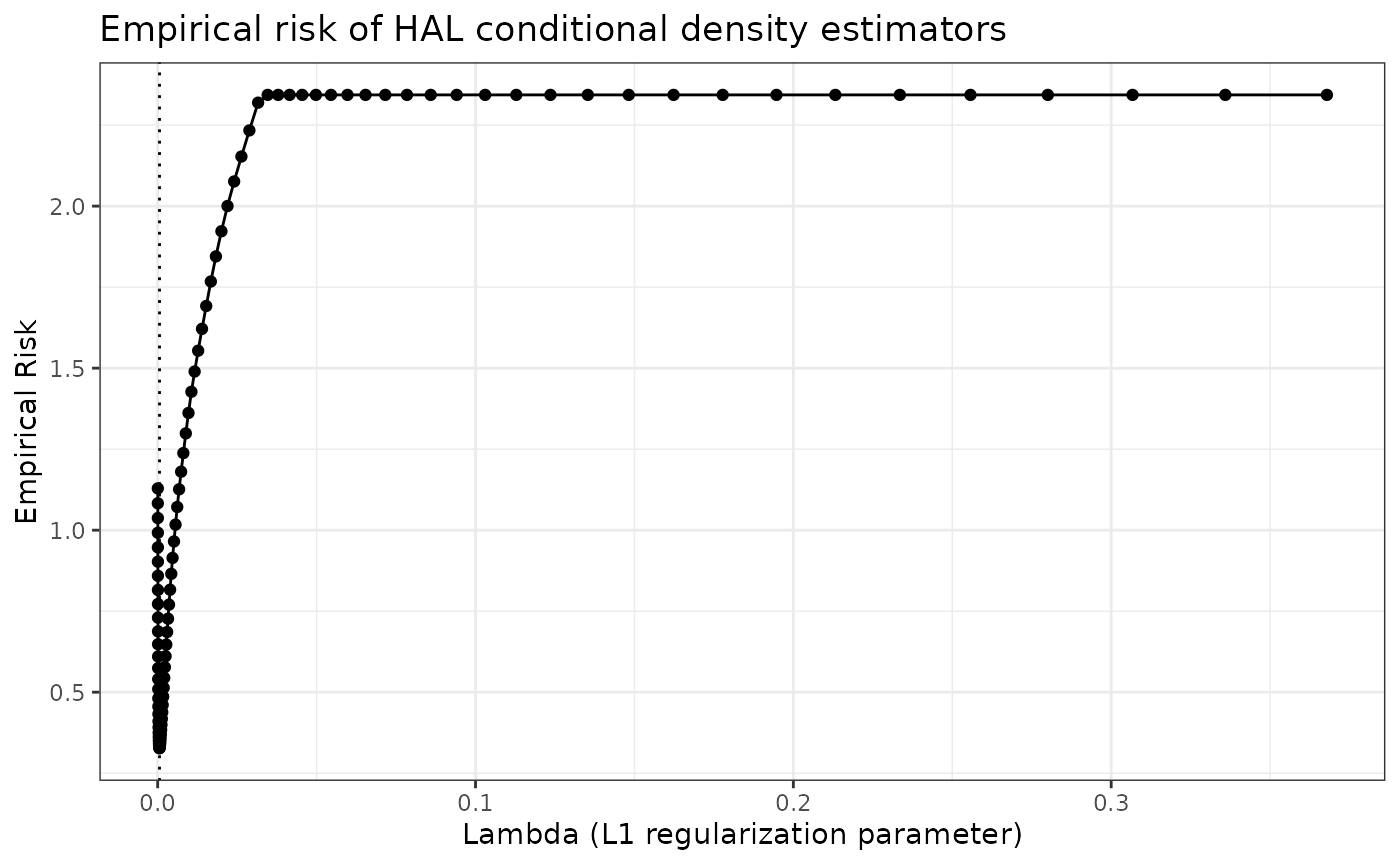
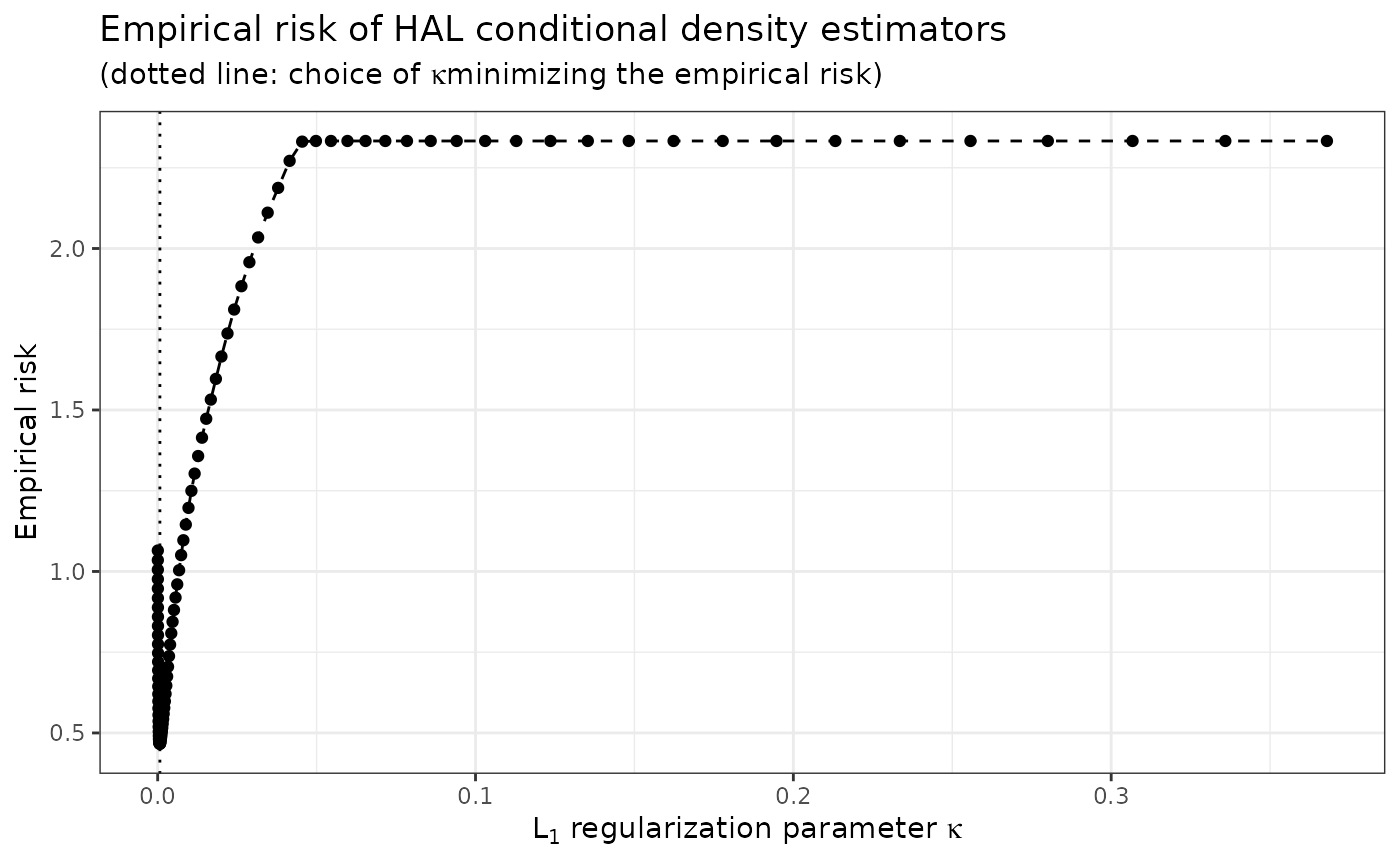
pkgdown updates

diff --git a/README.html b/README.html
@@ -603,7 +603,7 @@ body {
 <!-- README.md is generated from README.Rmd. Please edit that file -->
 
 <h1 id="rhaldensify">R/<code>haldensify</code></h1>
[2 lines of base64/hex data omitted]
 <blockquote>
 <p>Highly Adaptive Lasso Conditional Density Estimation</p>
 </blockquote>

diff --git a/docs/articles/intro_haldensify.html b/docs/articles/intro_haldensify.html
@@ -87,7 +87,7 @@
 <a href="https://nimahejazi.org">Nima Hejazi</a> and <a href="https://www.sph.emory.edu/faculty/profile/#!dbenkes">David Benkeser</a>
 </h4>
             
-            <h4 class="date">2021-02-05</h4>
+            <h4 class="date">2021-02-12</h4>
       
       <small class="dont-index">Source: <a href="https://github.com/nhejazi/haldensify/blob/master/vignettes/intro_haldensify.Rmd"><code>vignettes/intro_haldensify.Rmd</code></a></small>
       <div class="hidden name"><code>intro_haldensify.Rmd</code></div>
@@ -132,9 +132,9 @@
 <a href="#example" class="anchor"></a>Example</h1>
 <p>First, let’s load a few required packages and set a seed for our example.</p>
 <div class="sourceCode" id="cb1"><pre class="downlit sourceCode r">
-<code class="sourceCode R"><span class="kw"><a href="https://rdrr.io/r/base/library.html">library</a></span><span class="op">(</span><span class="va"><a href="https://ggplot2.tidyverse.org">ggplot2</a></span><span class="op">)</span>
+<code class="sourceCode R"><span class="kw"><a href="https://rdrr.io/r/base/library.html">library</a></span><span class="op">(</span><span class="va"><a href="https://github.com/nhejazi/haldensify">haldensify</a></span><span class="op">)</span>
 <span class="kw"><a href="https://rdrr.io/r/base/library.html">library</a></span><span class="op">(</span><span class="va"><a href="https://Rdatatable.gitlab.io/data.table">data.table</a></span><span class="op">)</span>
-<span class="kw"><a href="https://rdrr.io/r/base/library.html">library</a></span><span class="op">(</span><span class="va"><a href="https://github.com/nhejazi/haldensify">haldensify</a></span><span class="op">)</span>
+<span class="kw"><a href="https://rdrr.io/r/base/library.html">library</a></span><span class="op">(</span><span class="va"><a href="https://ggplot2.tidyverse.org">ggplot2</a></span><span class="op">)</span>
 <span class="fu"><a href="https://rdrr.io/r/base/Random.html">set.seed</a></span><span class="op">(</span><span class="fl">75681</span><span class="op">)</span></code></pre></div>
 <p>Next, we’ll generate a simple simulated dataset. The function <code>make_example_data</code>, defined below, generates a baseline covariate <span class="math inline">\(W\)</span> and a continuous-valued exposure variable <span class="math inline">\(A\)</span>, whose mean is a function of <span class="math inline">\(W\)</span>.</p>
 <div class="sourceCode" id="cb2"><pre class="downlit sourceCode r">
@@ -161,28 +161,16 @@
 ## 6: -2.9132139 -3.02363838</code></pre>
 <p>Next, we’ll fit our pooled hazards conditional density estimator via the <code>haldensify</code> wrapper function. Based on underlying theory and simulation experiments, we recommend setting a relatively large number of bins and using a binning strategy that accommodates creating such a large number of bins.</p>
 <div class="sourceCode" id="cb5"><pre class="downlit sourceCode r">
-<code class="sourceCode R"><span class="va">density_hal</span> <span class="op">&lt;-</span> <span class="fu"><a href="../reference/haldensify.html">haldensify</a></span><span class="op">(</span>
+<code class="sourceCode R"><span class="va">haldensify_fit</span> <span class="op">&lt;-</span> <span class="fu"><a href="../reference/haldensify.html">haldensify</a></span><span class="op">(</span>
   A <span class="op">=</span> <span class="va">example_data</span><span class="op">$</span><span class="va">A</span>,
   W <span class="op">=</span> <span class="va">example_data</span><span class="op">$</span><span class="va">W</span>,
-  n_bins <span class="op">=</span> <span class="fu"><a href="https://rdrr.io/r/base/c.html">c</a></span><span class="op">(</span><span class="fl">5</span>, <span class="fl">15</span><span class="op">)</span>,
+  n_bins <span class="op">=</span> <span class="fu"><a href="https://rdrr.io/r/base/c.html">c</a></span><span class="op">(</span><span class="fl">5</span>, <span class="fl">10</span><span class="op">)</span>,
   grid_type <span class="op">=</span> <span class="st">"equal_range"</span>,
   lambda_seq <span class="op">=</span> <span class="fu"><a href="https://rdrr.io/r/base/Log.html">exp</a></span><span class="op">(</span><span class="fu"><a href="https://rdrr.io/r/base/seq.html">seq</a></span><span class="op">(</span><span class="op">-</span><span class="fl">1</span>, <span class="op">-</span><span class="fl">10</span>, length <span class="op">=</span> <span class="fl">100</span><span class="op">)</span><span class="op">)</span>
 <span class="op">)</span></code></pre></div>
-<p>Having constructed the conditional density estimator, we can examine the empirical risk over the grid of L1 regularization parameters. To do this, we can use the cross-validated conditional density fits returned in the <code>cv_tuning_results</code> slot of the <code>haldensify</code> object. For example, we can plot these as follows</p>
+<p>Having constructed the conditional density estimator, we can examine the empirical risk over the grid of choices of the <span class="math inline">\(L_1\)</span> regularization parameter <span class="math inline">\(\lambda\)</span>. To do this, we can simply call the available <code>plot</code> method, which uses the cross-validated conditional density fits in the <code>cv_tuning_results</code> slot of the <code>haldensify</code> object. For example,</p>
 <div class="sourceCode" id="cb6"><pre class="downlit sourceCode r">
-<code class="sourceCode R"><span class="va">emp_risk_dat</span> <span class="op">&lt;-</span> <span class="fu"><a href="https://Rdatatable.gitlab.io/data.table/reference/as.data.table.html">as.data.table</a></span><span class="op">(</span><span class="fu"><a href="https://rdrr.io/r/base/list.html">list</a></span><span class="op">(</span>
-  lambda <span class="op">=</span> <span class="va">density_hal</span><span class="op">$</span><span class="va">cv_tuning_results</span><span class="op">$</span><span class="va">lambda_seq</span>,
-  risk <span class="op">=</span> <span class="va">density_hal</span><span class="op">$</span><span class="va">cv_tuning_results</span><span class="op">$</span><span class="va">emp_risks</span>
-<span class="op">)</span><span class="op">)</span>
-<span class="va">p_risk</span> <span class="op">&lt;-</span> <span class="fu"><a href="https://ggplot2.tidyverse.org/reference/ggplot.html">ggplot</a></span><span class="op">(</span><span class="va">emp_risk_dat</span>, <span class="fu"><a href="https://ggplot2.tidyverse.org/reference/aes.html">aes</a></span><span class="op">(</span>x <span class="op">=</span> <span class="va">lambda</span>, y <span class="op">=</span> <span class="va">risk</span><span class="op">)</span><span class="op">)</span> <span class="op">+</span>
-  <span class="fu"><a href="https://ggplot2.tidyverse.org/reference/geom_point.html">geom_point</a></span><span class="op">(</span><span class="op">)</span> <span class="op">+</span>
-  <span class="fu"><a href="https://ggplot2.tidyverse.org/reference/geom_path.html">geom_line</a></span><span class="op">(</span><span class="op">)</span> <span class="op">+</span>
-  <span class="fu"><a href="https://ggplot2.tidyverse.org/reference/geom_abline.html">geom_vline</a></span><span class="op">(</span>xintercept <span class="op">=</span> <span class="va">density_hal</span><span class="op">$</span><span class="va">cv_tuning_results</span><span class="op">$</span><span class="va">lambda_loss_min</span>,
-             linetype <span class="op">=</span> <span class="st">"dotted"</span><span class="op">)</span> <span class="op">+</span>
-  <span class="fu"><a href="https://ggplot2.tidyverse.org/reference/ggtheme.html">theme_bw</a></span><span class="op">(</span><span class="op">)</span> <span class="op">+</span>
-  <span class="fu"><a href="https://ggplot2.tidyverse.org/reference/labs.html">xlab</a></span><span class="op">(</span><span class="st">"Lambda (L1 regularization parameter)"</span><span class="op">)</span> <span class="op">+</span>
-  <span class="fu"><a href="https://ggplot2.tidyverse.org/reference/labs.html">ylab</a></span><span class="op">(</span><span class="st">"Empirical Risk"</span><span class="op">)</span> <span class="op">+</span>
-  <span class="fu"><a href="https://ggplot2.tidyverse.org/reference/labs.html">ggtitle</a></span><span class="op">(</span><span class="st">"Empirical risk of HAL conditional density estimators"</span><span class="op">)</span>
+<code class="sourceCode R"><span class="va">p_risk</span> <span class="op">&lt;-</span> <span class="fu"><a href="https://rdrr.io/r/graphics/plot.default.html">plot</a></span><span class="op">(</span><span class="va">haldensify_fit</span><span class="op">)</span>
 <span class="va">p_risk</span></code></pre></div>
 <p><img src="intro_haldensify_files/figure-html/plot_risk_haldensify-1.png" width="700"></p>
 <p>Finally, we can predict the conditional density over the grid of observed values <span class="math inline">\(A\)</span> across different elements of the support <span class="math inline">\(W\)</span>. We do this using the <code>predict</code> method of <code>haldensify</code> and plot the results below.</p>
@@ -193,11 +181,11 @@
                               w_neg <span class="op">=</span> <span class="fu"><a href="https://rdrr.io/r/base/rep.html">rep</a></span><span class="op">(</span><span class="op">-</span><span class="fl">2</span>, <span class="fu"><a href="https://rdrr.io/r/base/length.html">length</a></span><span class="op">(</span><span class="va">new_a</span><span class="op">)</span><span class="op">)</span>,
                               w_zero <span class="op">=</span> <span class="fu"><a href="https://rdrr.io/r/base/rep.html">rep</a></span><span class="op">(</span><span class="fl">0</span>, <span class="fu"><a href="https://rdrr.io/r/base/length.html">length</a></span><span class="op">(</span><span class="va">new_a</span><span class="op">)</span><span class="op">)</span>,
                               w_pos <span class="op">=</span> <span class="fu"><a href="https://rdrr.io/r/base/rep.html">rep</a></span><span class="op">(</span><span class="fl">2</span>, <span class="fu"><a href="https://rdrr.io/r/base/length.html">length</a></span><span class="op">(</span><span class="va">new_a</span><span class="op">)</span><span class="op">)</span><span class="op">)</span><span class="op">)</span>
-<span class="va">new_dat</span><span class="op">[</span>, <span class="va">pred_w_neg</span> <span class="op">:=</span> <span class="fu"><a href="https://rdrr.io/r/stats/predict.html">predict</a></span><span class="op">(</span><span class="va">density_hal</span>, new_A <span class="op">=</span> <span class="va">new_dat</span><span class="op">$</span><span class="va">a</span>,
+<span class="va">new_dat</span><span class="op">[</span>, <span class="va">pred_w_neg</span> <span class="op">:=</span> <span class="fu"><a href="https://rdrr.io/r/stats/predict.html">predict</a></span><span class="op">(</span><span class="va">haldensify_fit</span>, new_A <span class="op">=</span> <span class="va">new_dat</span><span class="op">$</span><span class="va">a</span>,
                                 new_W <span class="op">=</span> <span class="va">new_dat</span><span class="op">$</span><span class="va">w_neg</span><span class="op">)</span><span class="op">]</span>
-<span class="va">new_dat</span><span class="op">[</span>, <span class="va">pred_w_zero</span> <span class="op">:=</span> <span class="fu"><a href="https://rdrr.io/r/stats/predict.html">predict</a></span><span class="op">(</span><span class="va">density_hal</span>, new_A <span class="op">=</span> <span class="va">new_dat</span><span class="op">$</span><span class="va">a</span>,
+<span class="va">new_dat</span><span class="op">[</span>, <span class="va">pred_w_zero</span> <span class="op">:=</span> <span class="fu"><a href="https://rdrr.io/r/stats/predict.html">predict</a></span><span class="op">(</span><span class="va">haldensify_fit</span>, new_A <span class="op">=</span> <span class="va">new_dat</span><span class="op">$</span><span class="va">a</span>,
                                  new_W <span class="op">=</span> <span class="va">new_dat</span><span class="op">$</span><span class="va">w_zero</span><span class="op">)</span><span class="op">]</span>
-<span class="va">new_dat</span><span class="op">[</span>, <span class="va">pred_w_pos</span> <span class="op">:=</span> <span class="fu"><a href="https://rdrr.io/r/stats/predict.html">predict</a></span><span class="op">(</span><span class="va">density_hal</span>, new_A <span class="op">=</span> <span class="va">new_dat</span><span class="op">$</span><span class="va">a</span>,
+<span class="va">new_dat</span><span class="op">[</span>, <span class="va">pred_w_pos</span> <span class="op">:=</span> <span class="fu"><a href="https://rdrr.io/r/stats/predict.html">predict</a></span><span class="op">(</span><span class="va">haldensify_fit</span>, new_A <span class="op">=</span> <span class="va">new_dat</span><span class="op">$</span><span class="va">a</span>,
                                 new_W <span class="op">=</span> <span class="va">new_dat</span><span class="op">$</span><span class="va">w_pos</span><span class="op">)</span><span class="op">]</span>
 
 <span class="co"># visualize results</span>
@@ -206,15 +194,17 @@
 <span class="va">p_dens</span> <span class="op">&lt;-</span> <span class="fu"><a href="https://ggplot2.tidyverse.org/reference/ggplot.html">ggplot</a></span><span class="op">(</span><span class="va">dens_dat</span>, <span class="fu"><a href="https://ggplot2.tidyverse.org/reference/aes.html">aes</a></span><span class="op">(</span>x <span class="op">=</span> <span class="va">a</span>, y <span class="op">=</span> <span class="va">value</span>, colour <span class="op">=</span> <span class="va">variable</span><span class="op">)</span><span class="op">)</span> <span class="op">+</span>
   <span class="fu"><a href="https://ggplot2.tidyverse.org/reference/geom_point.html">geom_point</a></span><span class="op">(</span><span class="op">)</span> <span class="op">+</span>
   <span class="fu"><a href="https://ggplot2.tidyverse.org/reference/geom_path.html">geom_line</a></span><span class="op">(</span><span class="op">)</span> <span class="op">+</span>
-  <span class="fu"><a href="https://ggplot2.tidyverse.org/reference/geom_function.html">stat_function</a></span><span class="op">(</span>fun <span class="op">=</span> <span class="va">dnorm</span>, args <span class="op">=</span> <span class="fu"><a href="https://rdrr.io/r/base/list.html">list</a></span><span class="op">(</span>mean <span class="op">=</span> <span class="op">-</span><span class="fl">2</span>, sd <span class="op">=</span> <span class="fl">0.5</span><span class="op">)</span>,
+  <span class="fu"><a href="https://ggplot2.tidyverse.org/reference/geom_function.html">stat_function</a></span><span class="op">(</span>fun <span class="op">=</span> <span class="va">dnorm</span>, args <span class="op">=</span> <span class="fu"><a href="https://rdrr.io/r/base/list.html">list</a></span><span class="op">(</span>mean <span class="op">=</span> <span class="op">-</span><span class="fl">2</span>, sd <span class="op">=</span> <span class="fl">0.25</span><span class="op">)</span>,
                 colour <span class="op">=</span> <span class="st">"blue"</span>, linetype <span class="op">=</span> <span class="st">"dashed"</span><span class="op">)</span> <span class="op">+</span>
-  <span class="fu"><a href="https://ggplot2.tidyverse.org/reference/geom_function.html">stat_function</a></span><span class="op">(</span>fun <span class="op">=</span> <span class="va">dnorm</span>, args <span class="op">=</span> <span class="fu"><a href="https://rdrr.io/r/base/list.html">list</a></span><span class="op">(</span>mean <span class="op">=</span> <span class="fl">0</span>, sd <span class="op">=</span> <span class="fl">0.5</span><span class="op">)</span>,
+  <span class="fu"><a href="https://ggplot2.tidyverse.org/reference/geom_function.html">stat_function</a></span><span class="op">(</span>fun <span class="op">=</span> <span class="va">dnorm</span>, args <span class="op">=</span> <span class="fu"><a href="https://rdrr.io/r/base/list.html">list</a></span><span class="op">(</span>mean <span class="op">=</span> <span class="fl">0</span>, sd <span class="op">=</span> <span class="fl">0.25</span><span class="op">)</span>,
                 colour <span class="op">=</span> <span class="st">"darkgreen"</span>, linetype <span class="op">=</span> <span class="st">"dashed"</span><span class="op">)</span> <span class="op">+</span>
-  <span class="fu"><a href="https://ggplot2.tidyverse.org/reference/geom_function.html">stat_function</a></span><span class="op">(</span>fun <span class="op">=</span> <span class="va">dnorm</span>, args <span class="op">=</span> <span class="fu"><a href="https://rdrr.io/r/base/list.html">list</a></span><span class="op">(</span>mean <span class="op">=</span> <span class="fl">2</span>, sd <span class="op">=</span> <span class="fl">0.5</span><span class="op">)</span>,
+  <span class="fu"><a href="https://ggplot2.tidyverse.org/reference/geom_function.html">stat_function</a></span><span class="op">(</span>fun <span class="op">=</span> <span class="va">dnorm</span>, args <span class="op">=</span> <span class="fu"><a href="https://rdrr.io/r/base/list.html">list</a></span><span class="op">(</span>mean <span class="op">=</span> <span class="fl">2</span>, sd <span class="op">=</span> <span class="fl">0.25</span><span class="op">)</span>,
                 colour <span class="op">=</span> <span class="st">"red"</span>, linetype <span class="op">=</span> <span class="st">"dashed"</span><span class="op">)</span> <span class="op">+</span>
-  <span class="fu"><a href="https://ggplot2.tidyverse.org/reference/labs.html">xlab</a></span><span class="op">(</span><span class="st">"Observed value"</span><span class="op">)</span> <span class="op">+</span>
-  <span class="fu"><a href="https://ggplot2.tidyverse.org/reference/labs.html">ylab</a></span><span class="op">(</span><span class="st">"Predicted probability"</span><span class="op">)</span> <span class="op">+</span>
-  <span class="fu"><a href="https://ggplot2.tidyverse.org/reference/labs.html">ggtitle</a></span><span class="op">(</span><span class="st">"Conditional density p(A|W)"</span><span class="op">)</span> <span class="op">+</span>
+  <span class="fu"><a href="https://ggplot2.tidyverse.org/reference/labs.html">labs</a></span><span class="op">(</span>
+    x <span class="op">=</span> <span class="st">"Observed value"</span>,
+    y <span class="op">=</span> <span class="st">"Estimated density"</span>,
+    title <span class="op">=</span> <span class="st">"Conditional density p(A|W)"</span>
+  <span class="op">)</span> <span class="op">+</span>
   <span class="fu"><a href="https://ggplot2.tidyverse.org/reference/ggtheme.html">theme_bw</a></span><span class="op">(</span><span class="op">)</span> <span class="op">+</span>
   <span class="fu"><a href="https://ggplot2.tidyverse.org/reference/theme.html">theme</a></span><span class="op">(</span>legend.position <span class="op">=</span> <span class="st">"none"</span><span class="op">)</span>
 <span class="va">p_dens</span></code></pre></div>

diff --git a/docs/reference/plot.haldensify.html b/docs/reference/plot.haldensify.html
@@ -6,7 +6,7 @@
 <meta http-equiv="X-UA-Compatible" content="IE=edge">
 <meta name="viewport" content="width=device-width, initial-scale=1.0">
 
-<title>Prediction Method for HAL Conditional Density Estimation — predict.haldensify • haldensify</title>
+<title>Plot Method for HAL Conditional Density Estimates — plot.haldensify • haldensify</title>
 
 
 <!-- jquery -->
@@ -39,8 +39,8 @@
 
 
 
-<meta property="og:title" content="Prediction Method for HAL Conditional Density Estimation — predict.haldensify" />
-<meta property="og:description" content="Prediction Method for HAL Conditional Density Estimation" />
+<meta property="og:title" content="Plot Method for HAL Conditional Density Estimates — plot.haldensify" />
+<meta property="og:description" content="Plot Method for HAL Conditional Density Estimates" />
 
 
 
@@ -123,89 +123,57 @@
 <div class="row">
   <div class="col-md-9 contents">
     <div class="page-header">
-    <h1>Prediction Method for HAL Conditional Density Estimation</h1>
-    <small class="dont-index">Source: <a href='https://github.com/nhejazi/haldensify/blob/master/R/predict.R'><code>R/predict.R</code></a></small>
-    <div class="hidden name"><code>predict.haldensify.Rd</code></div>
+    <h1>Plot Method for HAL Conditional Density Estimates</h1>
+    <small class="dont-index">Source: <a href='https://github.com/nhejazi/haldensify/blob/master/R/plots.R'><code>R/plots.R</code></a></small>
+    <div class="hidden name"><code>plot.haldensify.Rd</code></div>
     </div>
 
     <div class="ref-description">
-    <p>Prediction Method for HAL Conditional Density Estimation</p>
+    <p>Plot Method for HAL Conditional Density Estimates</p>
     </div>
 
     <pre class="usage"><span class='co'># S3 method for haldensify</span>
-<span class='fu'><a href='https://rdrr.io/r/stats/predict.html'>predict</a></span><span class='op'>(</span>
-  <span class='va'>object</span>,
-  <span class='va'>...</span>,
-  <span class='va'>new_A</span>,
-  <span class='va'>new_W</span>,
-  lambda_select <span class='op'>=</span> <span class='fu'><a href='https://rdrr.io/r/base/c.html'>c</a></span><span class='op'>(</span><span class='st'>"cv"</span>, <span class='st'>"undersmooth"</span>, <span class='st'>"all"</span><span class='op'>)</span>
-<span class='op'>)</span></pre>
+<span class='fu'><a href='https://rdrr.io/r/graphics/plot.default.html'>plot</a></span><span class='op'>(</span><span class='va'>x</span>, <span class='va'>...</span>, type <span class='op'>=</span> <span class='fu'><a href='https://rdrr.io/r/base/c.html'>c</a></span><span class='op'>(</span><span class='st'>"risk"</span>, <span class='st'>"density"</span><span class='op'>)</span><span class='op'>)</span></pre>
 
     <h2 class="hasAnchor" id="arguments"><a class="anchor" href="#arguments"></a>Arguments</h2>
     <table class="ref-arguments">
     <colgroup><col class="name" /><col class="desc" /></colgroup>
     <tr>
-      <th>object</th>
-      <td><p>An object of class <code><a href='haldensify.html'>haldensify</a></code>, containing the
-results of fitting the highly adaptive lasso for conditional density
-estimation, as produced by a call to <code><a href='haldensify.html'>haldensify</a></code>.</p></td>
+      <th>x</th>
+      <td><p>Object of class <code>haldensify</code>, containing conditional density
+estimates, as produced by <code><a href='haldensify.html'>haldensify</a></code>.</p></td>
     </tr>
     <tr>
       <th>...</th>
-      <td><p>Additional arguments passed to <code>predict</code> as necessary.</p></td>
+      <td><p>Additional arguments to be passed <code>plot</code>, currently ignored.</p></td>
     </tr>
     <tr>
-      <th>new_A</th>
-      <td><p>The <code>numeric</code> vector or similar of the observed values for
-which a conditional density estimate is to be generated.</p></td>
-    </tr>
-    <tr>
-      <th>new_W</th>
-      <td><p>A <code>data.frame</code>, <code>matrix</code>, or similar giving the
-values of baseline covariates (potential confounders) for the conditioning
-set of the observed values <code>A</code>.</p></td>
-    </tr>
-    <tr>
-      <th>lambda_select</th>
-      <td><p>A <code>character</code> indicating whether to return the
-predicted density for the value of the regularization parameter chosen by
-the global cross-validation selector or whether to return an undersmoothed
-sequence (which starts with the cross-validation selector's choice but also
-includes all values in the sequence that are less restrictive). The default
-is <code>"cv"</code> for the global cross-validation selector. Setting the choice
-to <code>"undersmooth"</code> returns a matrix of predicted densities, with each
-column corresponding to a value of the regularization parameter less than
-or equal to the choice made by the global cross-validation selector. When
-<code>"all"</code> is set, predictions are returned for the full sequence of the
-regularization parameter on which the HAL model <code>object</code> was fitted.</p></td>
+      <th>type</th>
+      <td><p>A <code>character</code> indicating the type of plot to be produced.
+Options include visualizing the empirical risks of the conditional density
+estimators across a grid of values of the regularization parameter and a
+plot of the estimated conditional density (based on the estimator selected
+by cross-validation). The latter has yet to be implemented.</p></td>
     </tr>
     </table>
 
     <h2 class="hasAnchor" id="value"><a class="anchor" href="#value"></a>Value</h2>
 
-    <p>A <code>numeric</code> vector of predicted conditional density values from
- a fitted <code>haldensify</code> object.</p>
-    <h2 class="hasAnchor" id="details"><a class="anchor" href="#details"></a>Details</h2>
-
-    <p>Method for computing and extracting predictions of the conditional
- density estimates based on the highly adaptive lasso estimator, returned as
- an S3 object of class <code>haldensify</code> from <code><a href='haldensify.html'>haldensify</a></code>.</p>
+    <p>Object of class <code>ggplot</code> containing a plot of the desired
+ <code>type</code>.</p>
 
     <h2 class="hasAnchor" id="examples"><a class="anchor" href="#examples"></a>Examples</h2>
     <pre class="examples"><div class='input'><span class='co'># simulate data: W ~ U[-4, 4] and A|W ~ N(mu = W, sd = 0.5)</span>
 <span class='va'>n_train</span> <span class='op'>&lt;-</span> <span class='fl'>50</span>
 <span class='va'>w</span> <span class='op'>&lt;-</span> <span class='fu'><a href='https://rdrr.io/r/stats/Uniform.html'>runif</a></span><span class='op'>(</span><span class='va'>n_train</span>, <span class='op'>-</span><span class='fl'>4</span>, <span class='fl'>4</span><span class='op'>)</span>
 <span class='va'>a</span> <span class='op'>&lt;-</span> <span class='fu'><a href='https://rdrr.io/r/stats/Normal.html'>rnorm</a></span><span class='op'>(</span><span class='va'>n_train</span>, <span class='va'>w</span>, <span class='fl'>0.5</span><span class='op'>)</span>
-<span class='co'># HAL-based density estimator of A|W</span>
+<span class='co'># learn relationship A|W using HAL-based density estimation procedure</span>
 <span class='va'>haldensify_fit</span> <span class='op'>&lt;-</span> <span class='fu'><a href='haldensify.html'>haldensify</a></span><span class='op'>(</span>
-  A <span class='op'>=</span> <span class='va'>a</span>, W <span class='op'>=</span> <span class='va'>w</span>,
+  A <span class='op'>=</span> <span class='va'>a</span>, W <span class='op'>=</span> <span class='va'>w</span>, n_bins <span class='op'>=</span> <span class='fl'>3</span>,
   lambda_seq <span class='op'>=</span> <span class='fu'><a href='https://rdrr.io/r/base/Log.html'>exp</a></span><span class='op'>(</span><span class='fu'><a href='https://rdrr.io/r/base/seq.html'>seq</a></span><span class='op'>(</span><span class='op'>-</span><span class='fl'>1</span>, <span class='op'>-</span><span class='fl'>10</span>, length <span class='op'>=</span> <span class='fl'>50</span><span class='op'>)</span><span class='op'>)</span>
 <span class='op'>)</span>
-<span class='co'># predictions to recover conditional density of A|W</span>
-<span class='va'>new_a</span> <span class='op'>&lt;-</span> <span class='fu'><a href='https://rdrr.io/r/base/seq.html'>seq</a></span><span class='op'>(</span><span class='op'>-</span><span class='fl'>4</span>, <span class='fl'>4</span>, by <span class='op'>=</span> <span class='fl'>0.1</span><span class='op'>)</span>
-<span class='va'>new_w</span> <span class='op'>&lt;-</span> <span class='fu'><a href='https://rdrr.io/r/base/rep.html'>rep</a></span><span class='op'>(</span><span class='fl'>0</span>, <span class='fu'><a href='https://rdrr.io/r/base/length.html'>length</a></span><span class='op'>(</span><span class='va'>new_a</span><span class='op'>)</span><span class='op'>)</span>
-<span class='va'>pred_dens</span> <span class='op'>&lt;-</span> <span class='fu'><a href='https://rdrr.io/r/stats/predict.html'>predict</a></span><span class='op'>(</span><span class='va'>haldensify_fit</span>, new_A <span class='op'>=</span> <span class='va'>new_a</span>, new_W <span class='op'>=</span> <span class='va'>new_w</span><span class='op'>)</span>
-</div></pre>
+</div><div class='output co'>#&gt; <span class='message'>n_bin and grid_type fixed: skipped CV-selection, even for lambda</span></div><div class='input'><span class='fu'><a href='https://rdrr.io/r/graphics/plot.default.html'>plot</a></span><span class='op'>(</span><span class='va'>haldensify_fit</span><span class='op'>)</span>
+</div><div class='output co'>#&gt; <span class='warning'>Warning: Removed 50 rows containing missing values (geom_point).</span></div><div class='output co'>#&gt; <span class='warning'>Warning: Removed 50 row(s) containing missing values (geom_path).</span></div><div class='output co'>#&gt; <span class='warning'>Warning: Removed 1 rows containing missing values (geom_vline).</span></div><div class='img'><img src='plot.haldensify-1.png' alt='' width='700' height='433' /></div></pre>
   </div>
   <div class="col-md-3 hidden-xs hidden-sm" id="pkgdown-sidebar">
     <nav id="toc" data-toggle="toc" class="sticky-top">

diff --git a/docs/index.html b/docs/index.html
@@ -12,15 +12,15 @@
 <link rel="stylesheet" href="https://cdnjs.cloudflare.com/ajax/libs/font-awesome/5.12.1/css/v4-shims.min.css" integrity="sha256-wZjR52fzng1pJHwx4aV2AO3yyTOXrcDW7jBpJtTwVxw=" crossorigin="anonymous">
 <!-- clipboard.js --><script src="https://cdnjs.cloudflare.com/ajax/libs/clipboard.js/2.0.6/clipboard.min.js" integrity="sha256-inc5kl9MA1hkeYUt+EC3BhlIgyp/2jDIyBLS6k3UxPI=" crossorigin="anonymous"></script><!-- headroom.js --><script src="https://cdnjs.cloudflare.com/ajax/libs/headroom/0.11.0/headroom.min.js" integrity="sha256-AsUX4SJE1+yuDu5+mAVzJbuYNPHj/WroHuZ8Ir/CkE0=" crossorigin="anonymous"></script><script src="https://cdnjs.cloudflare.com/ajax/libs/headroom/0.11.0/jQuery.headroom.min.js" integrity="sha256-ZX/yNShbjqsohH1k95liqY9Gd8uOiE1S4vZc+9KQ1K4=" crossorigin="anonymous"></script><!-- pkgdown --><link href="pkgdown.css" rel="stylesheet">
 <script src="pkgdown.js"></script><meta property="og:title" content="Highly Adaptive Lasso Conditional Density Estimation">
-<meta property="og:description" content="Conditional density estimation is a longstanding and challenging
-    problem in statistical theory, and numerous proposals exist for optimally
-    estimating such complex functions. Algorithms for nonparametric estimation
-    of conditional densities based on a pooled hazard regression formulation and
-    semiparametric estimation via conditional hazards modeling are implemented
-    based on the highly adaptive lasso, a nonparametric regression function for
-    efficient estimation with fast convergence under mild assumptions. The
-    pooled hazards formulation implemented was first described by Díaz and
-    van der Laan (2011) &lt;doi:10.2202/1557-4679.1356&gt;.">
+<meta property="og:description" content="An algorithm for flexible conditional density estimation based on
+    application of pooled hazard regression to an artificial repeated measures
+    dataset constructed by discretizing the support of the outcome variable. To
+    facilitate non/semi-parametric estimation of the conditional density, the
+    highly adaptive lasso, a nonparametric regression function shown to reliably
+    estimate a large class of functions at a provably fast convergence rate with
+    only mild assumptions, is utilized. The pooled hazards data augmentation
+    formulation implemented was first described by Díaz and van der Laan (2011)
+    &lt;doi:10.2202/1557-4679.1356&gt;.">
 <!-- mathjax --><script src="https://cdnjs.cloudflare.com/ajax/libs/mathjax/2.7.5/MathJax.js" integrity="sha256-nvJJv9wWKEm88qvoQl9ekL2J+k/RWIsaSScxxlsrv8k=" crossorigin="anonymous"></script><script src="https://cdnjs.cloudflare.com/ajax/libs/mathjax/2.7.5/config/TeX-AMS-MML_HTMLorMML.js" integrity="sha256-84DKXVJXs0/F8OTMzX4UR909+jtl4G7SPypPavF+GfA=" crossorigin="anonymous"></script><!--[if lt IE 9]>
 <script src="https://oss.maxcdn.com/html5shiv/3.7.3/html5shiv.min.js"></script>
 <script src="https://oss.maxcdn.com/respond/1.4.2/respond.min.js"></script>

diff --git a/docs/news/index.html b/docs/news/index.html
@@ -132,10 +132,13 @@
 </h1>
 <p>As of February 2021:</p>
 <ul>
+<li>Addition of a method <code>plot.haldensify</code> to simplify visualizing the empirical risks of the sequence of HAL-based conditional density estimators across the grid of the regularization parameter, and necessary changes to the vignette.</li>
+<li>Preparation to add an option to visualize the conditional density estimates (of the estimator selected by cross-validation) via a <code>type</code> argument in the <code>plot.haldensify</code> method. Not yet implemented.</li>
+<li>Simplification of unit tests to remove unnecessary reliance on <code>dplyr</code>.</li>
 <li>Limit re-fitting of HAL model (after CV-selection of tuning parameters) in <code><a href="../reference/haldensify.html">haldensify()</a></code> to full-data fit by explicitly passing <code>n_folds = 1</code>.</li>
 <li>Avoid cross-validation procedure conditionally when the arguments <code>n_bin</code> and <code>grid_type</code> are fixed; add related assertion check in <code><a href="https://rdrr.io/r/stats/predict.html">predict()</a></code> when <code><a href="../reference/haldensify.html">haldensify()</a></code> skips cross-validation (since lambda selection skipped).</li>
 <li>Change how long-format repeated measures data is passed around in both <code><a href="../reference/haldensify.html">haldensify()</a></code> and <code><a href="https://rdrr.io/r/stats/predict.html">predict()</a></code> to clarify variable passing.</li>
-<li>Correct <code><a href="https://rdrr.io/r/stats/predict.html">predict()</a></code> method to set to zero values in <code>new_A</code> outside of the range of <code>A</code> on which the <code><a href="../reference/haldensify.html">haldensify()</a></code> model was trained.</li>
+<li>Correct <code><a href="https://rdrr.io/r/stats/predict.html">predict()</a></code> method to truncate small conditional density estimates to a minimum value of [1 / sqrt(n)], based on the prediction set sample size.</li>
 </ul>
 </div>
     <div id="haldensify-008" class="section level1">

diff --git a/docs/reference/fit_haldensify.html b/docs/reference/fit_haldensify.html
@@ -204,7 +204,7 @@ parameter of Lasso regression; passed to <code><a href='https://rdrr.io/pkg/hal9
 <span class='va'>w</span> <span class='op'>&lt;-</span> <span class='fu'><a href='https://rdrr.io/r/stats/Uniform.html'>runif</a></span><span class='op'>(</span><span class='va'>n_train</span>, <span class='op'>-</span><span class='fl'>4</span>, <span class='fl'>4</span><span class='op'>)</span>
 <span class='va'>a</span> <span class='op'>&lt;-</span> <span class='fu'><a href='https://rdrr.io/r/stats/Normal.html'>rnorm</a></span><span class='op'>(</span><span class='va'>n_train</span>, <span class='va'>w</span>, <span class='fl'>0.5</span><span class='op'>)</span>
 <span class='co'># fit cross-validated HAL-based density estimator of A|W</span>
-<span class='va'>fit_cv_haldensify</span> <span class='op'>&lt;-</span> <span class='fu'>fit_haldensify</span><span class='op'>(</span>
+<span class='va'>haldensify_cvfit</span> <span class='op'>&lt;-</span> <span class='fu'>fit_haldensify</span><span class='op'>(</span>
   A <span class='op'>=</span> <span class='va'>a</span>, W <span class='op'>=</span> <span class='va'>w</span>, n_bins <span class='op'>=</span> <span class='fl'>3</span>,
   lambda_seq <span class='op'>=</span> <span class='fu'><a href='https://rdrr.io/r/base/Log.html'>exp</a></span><span class='op'>(</span><span class='fu'><a href='https://rdrr.io/r/base/seq.html'>seq</a></span><span class='op'>(</span><span class='op'>-</span><span class='fl'>1</span>, <span class='op'>-</span><span class='fl'>10</span>, length <span class='op'>=</span> <span class='fl'>50</span><span class='op'>)</span><span class='op'>)</span>
 <span class='op'>)</span>

diff --git a/docs/reference/haldensify.html b/docs/reference/haldensify.html
@@ -252,7 +252,7 @@ and <code>return_x_basis</code>, but this list is not exhaustive.</p></td>
 <span class='va'>w</span> <span class='op'>&lt;-</span> <span class='fu'><a href='https://rdrr.io/r/stats/Uniform.html'>runif</a></span><span class='op'>(</span><span class='va'>n_train</span>, <span class='op'>-</span><span class='fl'>4</span>, <span class='fl'>4</span><span class='op'>)</span>
 <span class='va'>a</span> <span class='op'>&lt;-</span> <span class='fu'><a href='https://rdrr.io/r/stats/Normal.html'>rnorm</a></span><span class='op'>(</span><span class='va'>n_train</span>, <span class='va'>w</span>, <span class='fl'>0.5</span><span class='op'>)</span>
 <span class='co'># learn relationship A|W using HAL-based density estimation procedure</span>
-<span class='va'>mod_haldensify</span> <span class='op'>&lt;-</span> <span class='fu'>haldensify</span><span class='op'>(</span>
+<span class='va'>haldensify_fit</span> <span class='op'>&lt;-</span> <span class='fu'>haldensify</span><span class='op'>(</span>
   A <span class='op'>=</span> <span class='va'>a</span>, W <span class='op'>=</span> <span class='va'>w</span>,
   lambda_seq <span class='op'>=</span> <span class='fu'><a href='https://rdrr.io/r/base/Log.html'>exp</a></span><span class='op'>(</span><span class='fu'><a href='https://rdrr.io/r/base/seq.html'>seq</a></span><span class='op'>(</span><span class='op'>-</span><span class='fl'>1</span>, <span class='op'>-</span><span class='fl'>10</span>, length <span class='op'>=</span> <span class='fl'>50</span><span class='op'>)</span><span class='op'>)</span>
 <span class='op'>)</span>

diff --git a/docs/TODO.html b/docs/TODO.html
@@ -131,7 +131,7 @@
 <li>[x] Add <code>...</code> args to <code><a href="reference/haldensify.html">haldensify()</a></code> to allow arbitrary arguments to be passed directly to <code>fit_hal()</code>.</li>
 <li>[x] Remove <code>use_future</code> argument to <code><a href="reference/haldensify.html">haldensify()</a></code>, instead reducing to calling <code>future_mapply()</code>, with sequential evaluation via <code>plan(sequential)</code>.</li>
 <li>[x] Add example of working with bootstrap samples, e.g., using <a href="https://rsample.tidymodels.org/reference/bootstraps.html"><code>rsample</code></a>.</li>
-<li>[ ] Add a <code><a href="https://rdrr.io/r/graphics/plot.default.html">plot()</a></code> method to more easily visualize how empirical risk changes across the sequence of explored regularization parameter values.</li>
+<li>[x] Add a <code><a href="https://rdrr.io/r/graphics/plot.default.html">plot()</a></code> method to more easily visualize how empirical risk changes across the sequence of explored regularization parameter values.</li>
 <li>[ ] Add an <code>ipw_est()</code> function for constructing IPW estimators of the mean counterfactual outcome of a stochastic shift intervention via <code>haldensify</code>.</li>
 <li>[ ] Add an argument to <code><a href="reference/haldensify.html">haldensify()</a></code> to allow normalization of the density estimates to improve estimation stability. Note that this normalized density is actually g(A|W)/g(A), instead of the currently estimated g(A|W).</li>
 </ul>

diff --git a/docs/reference/index.html b/docs/reference/index.html
@@ -178,6 +178,12 @@
       </tr><tr>
         
         <td>
+          <p><code><a href="plot.haldensify.html">plot(<i>&lt;haldensify&gt;</i>)</a></code> </p>
+        </td>
+        <td><p>Plot Method for HAL Conditional Density Estimates</p></td>
+      </tr><tr>
+        
+        <td>
           <p><code><a href="predict.haldensify.html">predict(<i>&lt;haldensify&gt;</i>)</a></code> </p>
         </td>
         <td><p>Prediction Method for HAL Conditional Density Estimation</p></td>

diff --git a/TODO.md b/TODO.md
@@ -6,7 +6,7 @@
   calling `future_mapply()`, with sequential evaluation via `plan(sequential)`.
 - [x] Add example of working with bootstrap samples, e.g., using
   [`rsample`](https://rsample.tidymodels.org/reference/bootstraps.html).
-- [ ] Add a `plot()` method to more easily visualize how empirical risk changes
+- [x] Add a `plot()` method to more easily visualize how empirical risk changes
   across the sequence of explored regularization parameter values.
 - [ ] Add an `ipw_est()` function for constructing IPW estimators of the mean
   counterfactual outcome of a stochastic shift intervention via `haldensify`.
